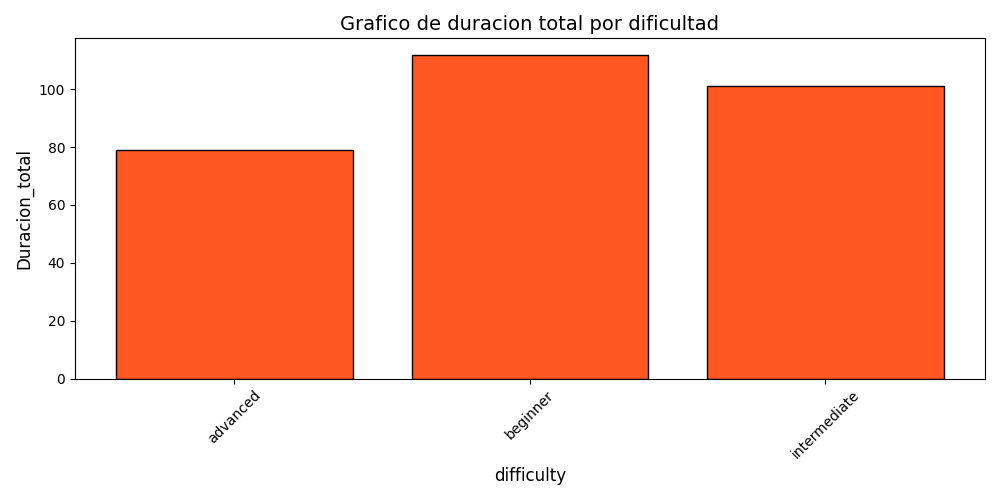
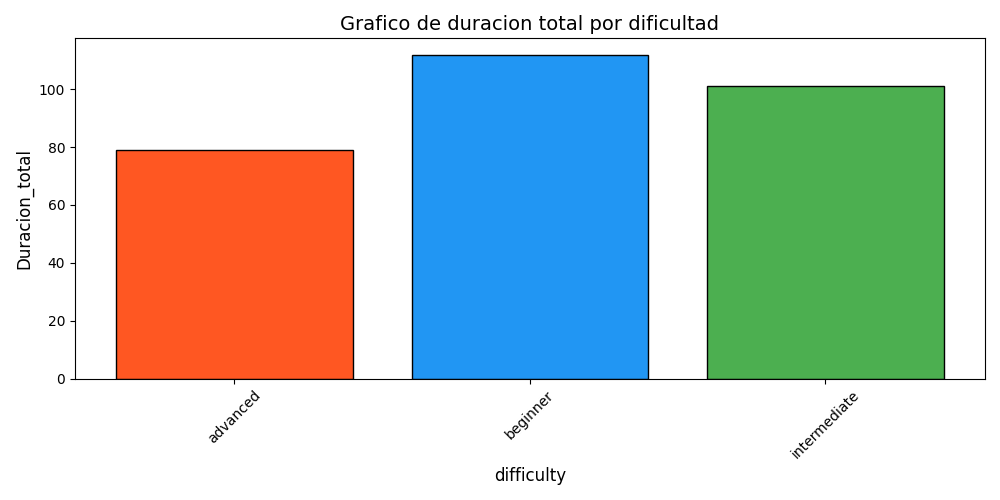
Se agregan estadisticas

Changed region(s): [[0.682, 0.15, 0.961, 0.78], [0.403, 0.09, 0.651, 0.78]]

diff --git a/app/(app)/statistics/page.tsx b/app/(app)/statistics/page.tsx
@@ -1,0 +1,90 @@
+import Image from "next/image";
+
+import chart2 from "@/src/assets/graficos/usuarios_por_sexo.png";
+import chart1 from "@/src/assets/graficos/duracion_por_dificultad.png";
+import chart3 from "@/src/assets/graficos/duracion_promedio_lineas.png";
+import chart4 from "@/src/assets/graficos/no-image.jpg";
+
+import {
+  Card,
+  CardContent,
+  CardDescription,
+  CardHeader,
+  CardTitle,
+} from "@/components/ui/card";
+
+const charts = [
+  {
+    title: "Duración por Dificultad",
+    description: "Duración de los ejercicios por nivel de dificultad",
+    image: chart1,
+  },
+  {
+    title: "Cantidad usuarios por género",
+    description: "Distribución de usuarios por género",
+    image: chart2,
+  },
+  {
+    title: "Duracion Promedio",
+    description: "Duracion Promedio de ejercicios por rutinas",
+    image: chart3,
+  },
+  {
+    title: "Muscle Groups",
+    description: "Training focus by muscle group",
+    image: chart4,
+  },
+];
+
+export default function StatisticsPage() {
+  return (
+    <div className="min-h-screen bg-background">
+      <div className="mx-auto max-w-7xl p-6 space-y-8">
+        <div>
+          <h1 className="text-4xl font-bold tracking-tight">
+            Statistics Dashboard
+          </h1>
+
+          <p className="text-muted-foreground mt-2">
+            Analytics and performance insights.
+          </p>
+        </div>
+
+        <div className="columns-1 lg:columns-2 gap-6 space-y-6">
+          {charts.map((chart) => (
+            <Card
+              key={chart.title}
+              className="
+                overflow-hidden
+                border-border/50
+                backdrop-blur-sm
+                shadow-lg
+                transition-all
+                duration-300
+                hover:shadow-xl
+                hover:-translate-y-1
+              "
+            >
+              <CardHeader>
+                <CardTitle>{chart.title}</CardTitle>
+                <CardDescription>{chart.description}</CardDescription>
+              </CardHeader>
+
+              <CardContent>
+                <div className="p-4">
+                  <Image
+                    src={chart.image}
+                    alt={chart.title}
+                    width={chart.image.width}
+                    height={chart.image.height}
+                    className="w-full h-auto rounded-lg"
+                  />
+                </div>
+              </CardContent>
+            </Card>
+          ))}
+        </div>
+      </div>
+    </div>
+  );
+}

diff --git a/components/navbar.tsx b/components/navbar.tsx
@@ -17,6 +17,7 @@ const navLinks = [
   { href: "/routines", label: "Rutinas" },
   { href: "/videos", label: "Videos" },
   { href: "/community", label: "Comunidad" },
+  { href: "/statistics", label: "Estadísticas" },
 ];
 
 export default function Navbar() {
